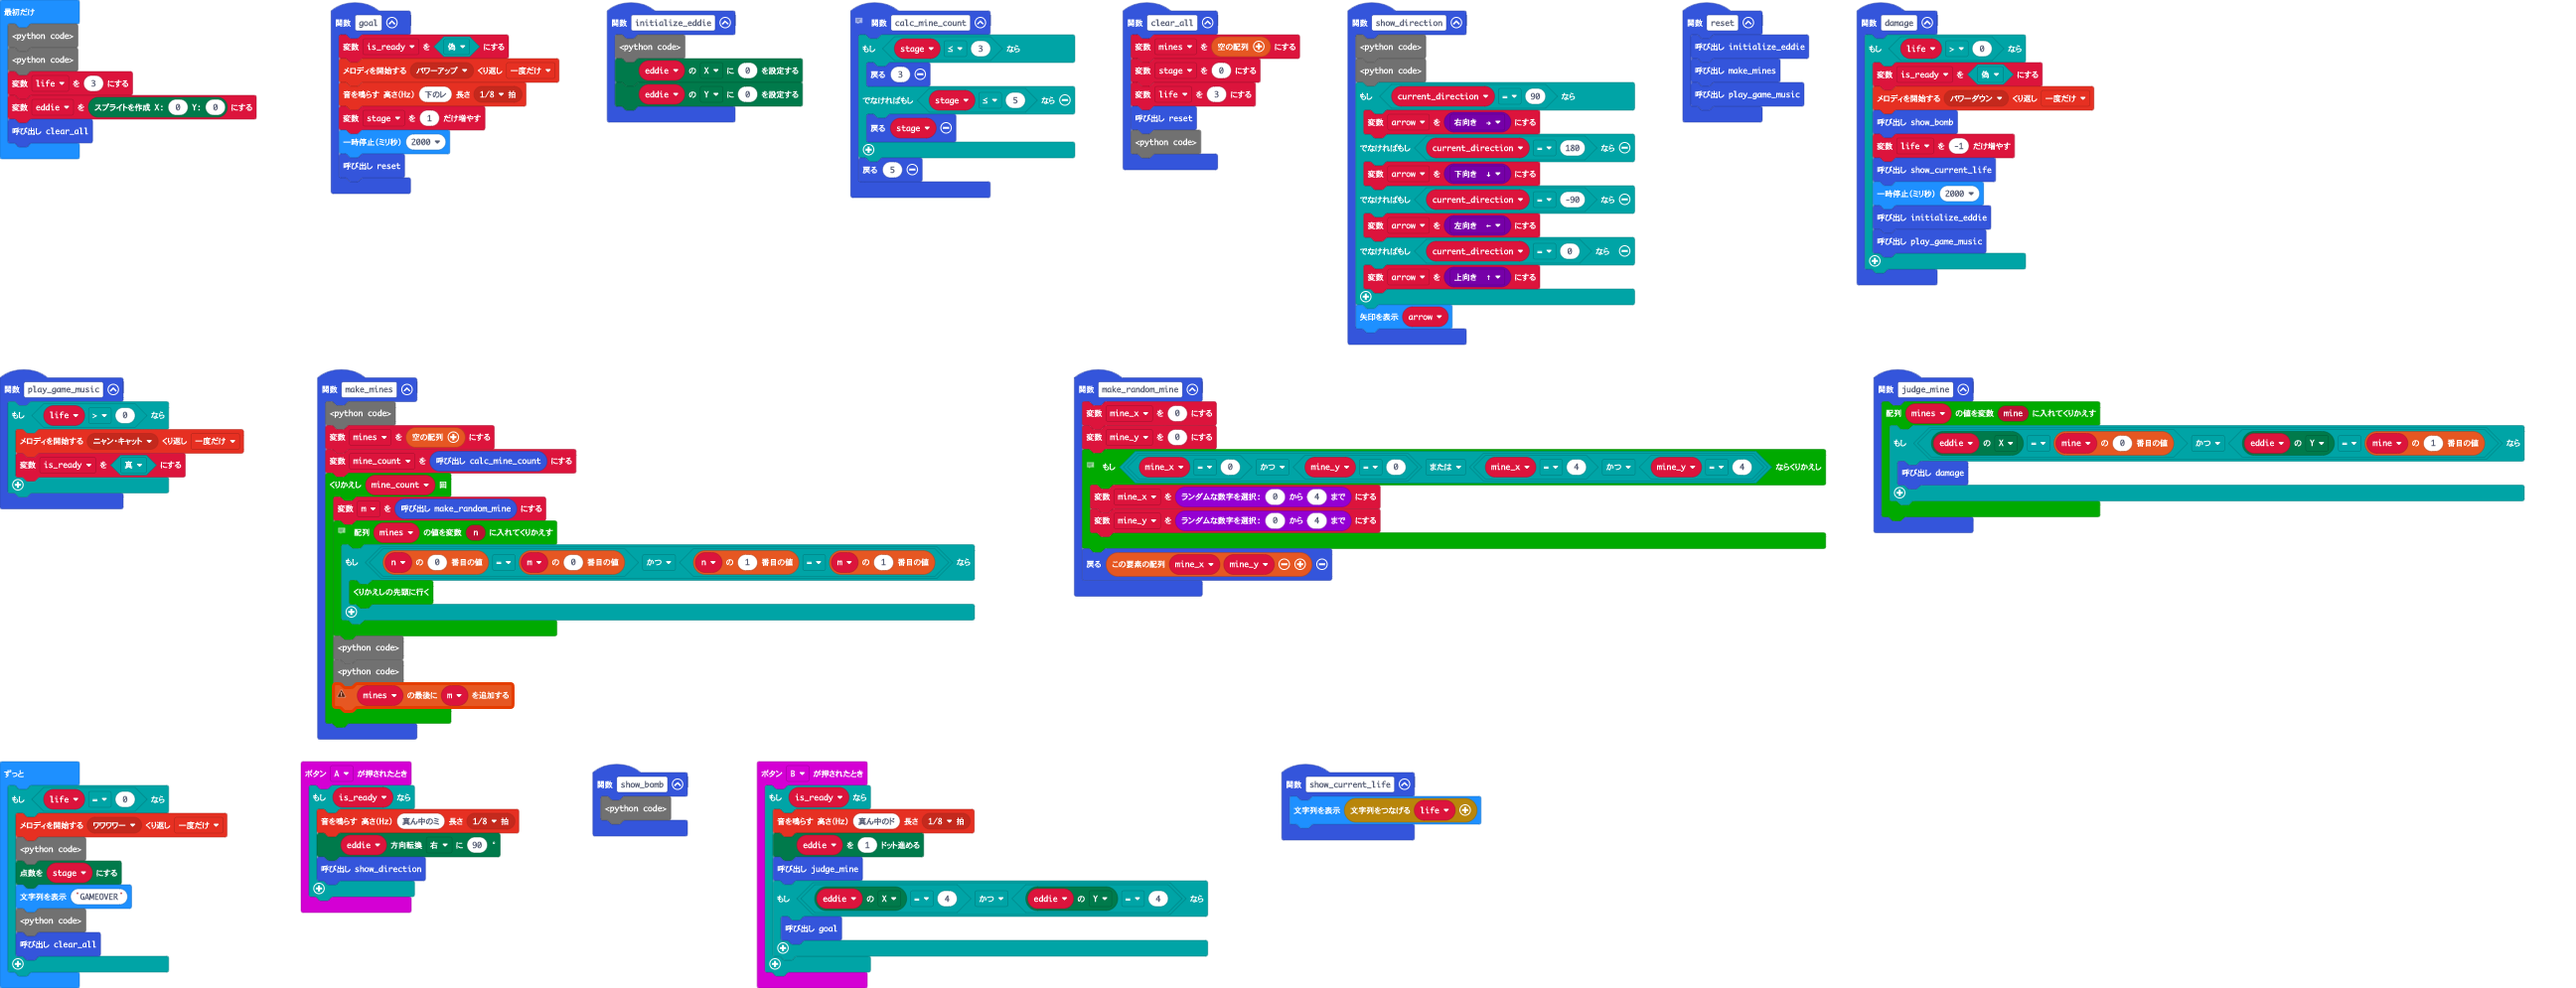
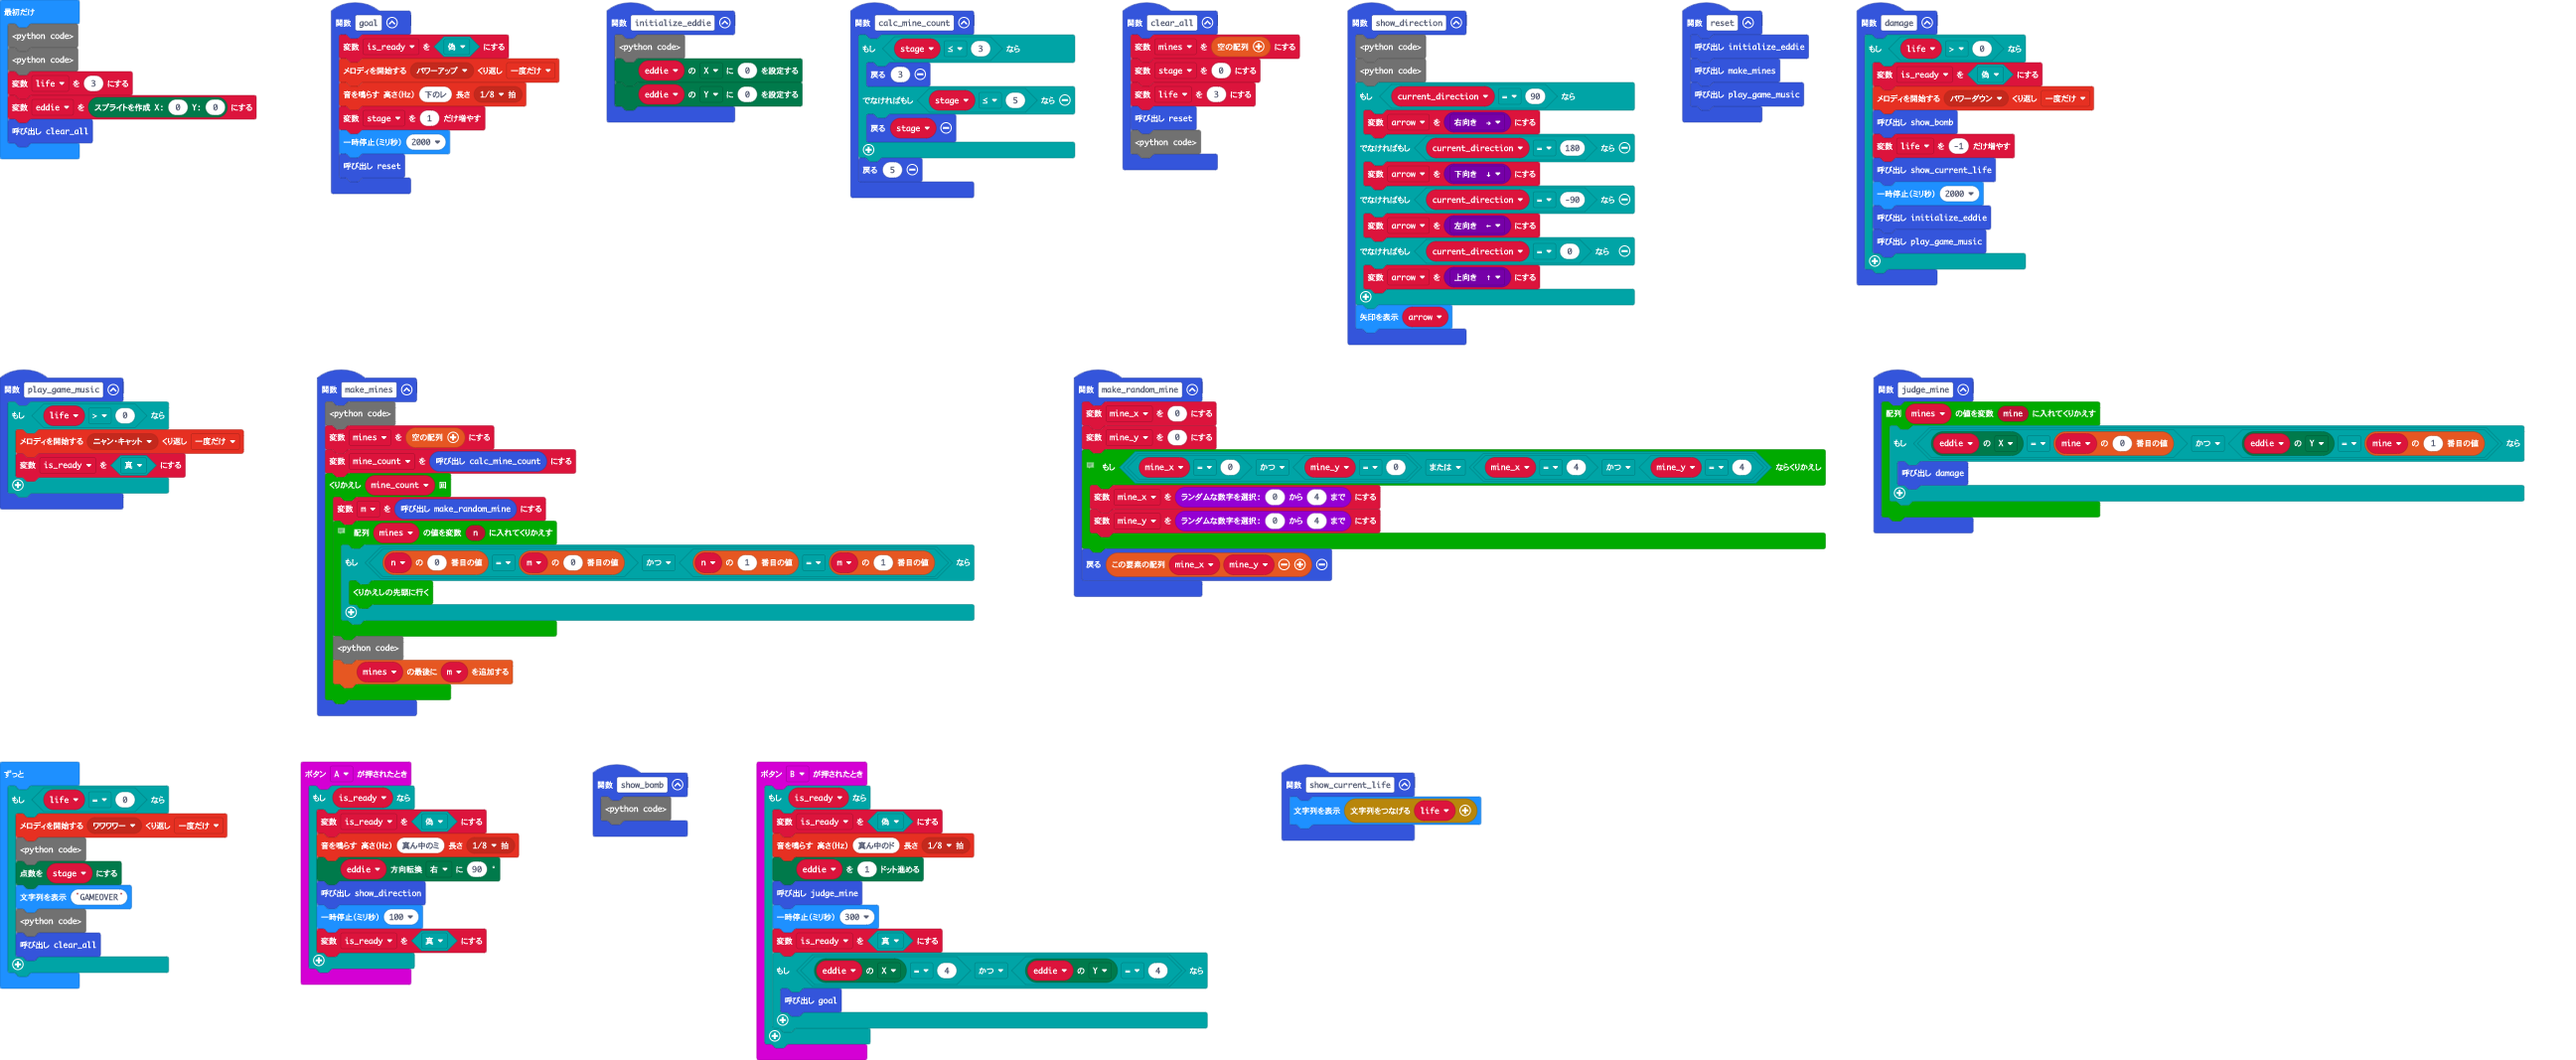
fix: button usage

diff --git a/main.ts b/main.ts
@@ -12,7 +12,6 @@ function make_mines() {
             }
             
         }
-        // print(m)
         flash_mine(m)
         mines.push(m)
     }
@@ -56,10 +55,14 @@ function initialize_eddie() {
 }
 
 input.onButtonPressed(Button.A, function on_button_pressed_a() {
+    
     if (is_ready) {
+        is_ready = false
         music.playTone(330, music.beat(BeatFraction.Eighth))
         eddie.turn(Direction.Right, 90)
         show_direction()
+        basic.pause(100)
+        is_ready = true
     }
     
 })
@@ -109,10 +112,14 @@ function show_direction() {
 }
 
 input.onButtonPressed(Button.B, function on_button_pressed_b() {
+    
     if (is_ready) {
+        is_ready = false
         music.playTone(262, music.beat(BeatFraction.Eighth))
         eddie.move(1)
         judge_mine()
+        basic.pause(100)
+        is_ready = true
         if (eddie.get(LedSpriteProperty.X) == 4 && eddie.get(LedSpriteProperty.Y) == 4) {
             goal()
         }

diff --git a/main.py b/main.py
@@ -8,7 +8,6 @@ def make_mines():
         for n in mines:
             if n[0] == m[0] and n[1] == m[1]:
                 continue
-        #print(m)
         flash_mine(m)
         mines.append(m)
 def make_random_mine():
@@ -38,10 +37,14 @@ def initialize_eddie():
     eddie.set(LedSpriteProperty.Y, 0)
 
 def on_button_pressed_a():
+    global is_ready
     if is_ready:
+        is_ready = False
         music.play_tone(330, music.beat(BeatFraction.EIGHTH))
         eddie.turn(Direction.RIGHT, 90)
         show_direction()
+        basic.pause(100)
+        is_ready = True
 input.on_button_pressed(Button.A, on_button_pressed_a)
 
 def show_bomb():
@@ -78,10 +81,14 @@ def show_direction():
     basic.show_arrow(arrow)
 
 def on_button_pressed_b():
+    global is_ready
     if is_ready:
+        is_ready = False
         music.play_tone(262, music.beat(BeatFraction.EIGHTH))
         eddie.move(1)
         judge_mine()
+        basic.pause(100)
+        is_ready = True
         if eddie.get(LedSpriteProperty.X) == 4 and eddie.get(LedSpriteProperty.Y) == 4:
             goal()
 input.on_button_pressed(Button.B, on_button_pressed_b)
